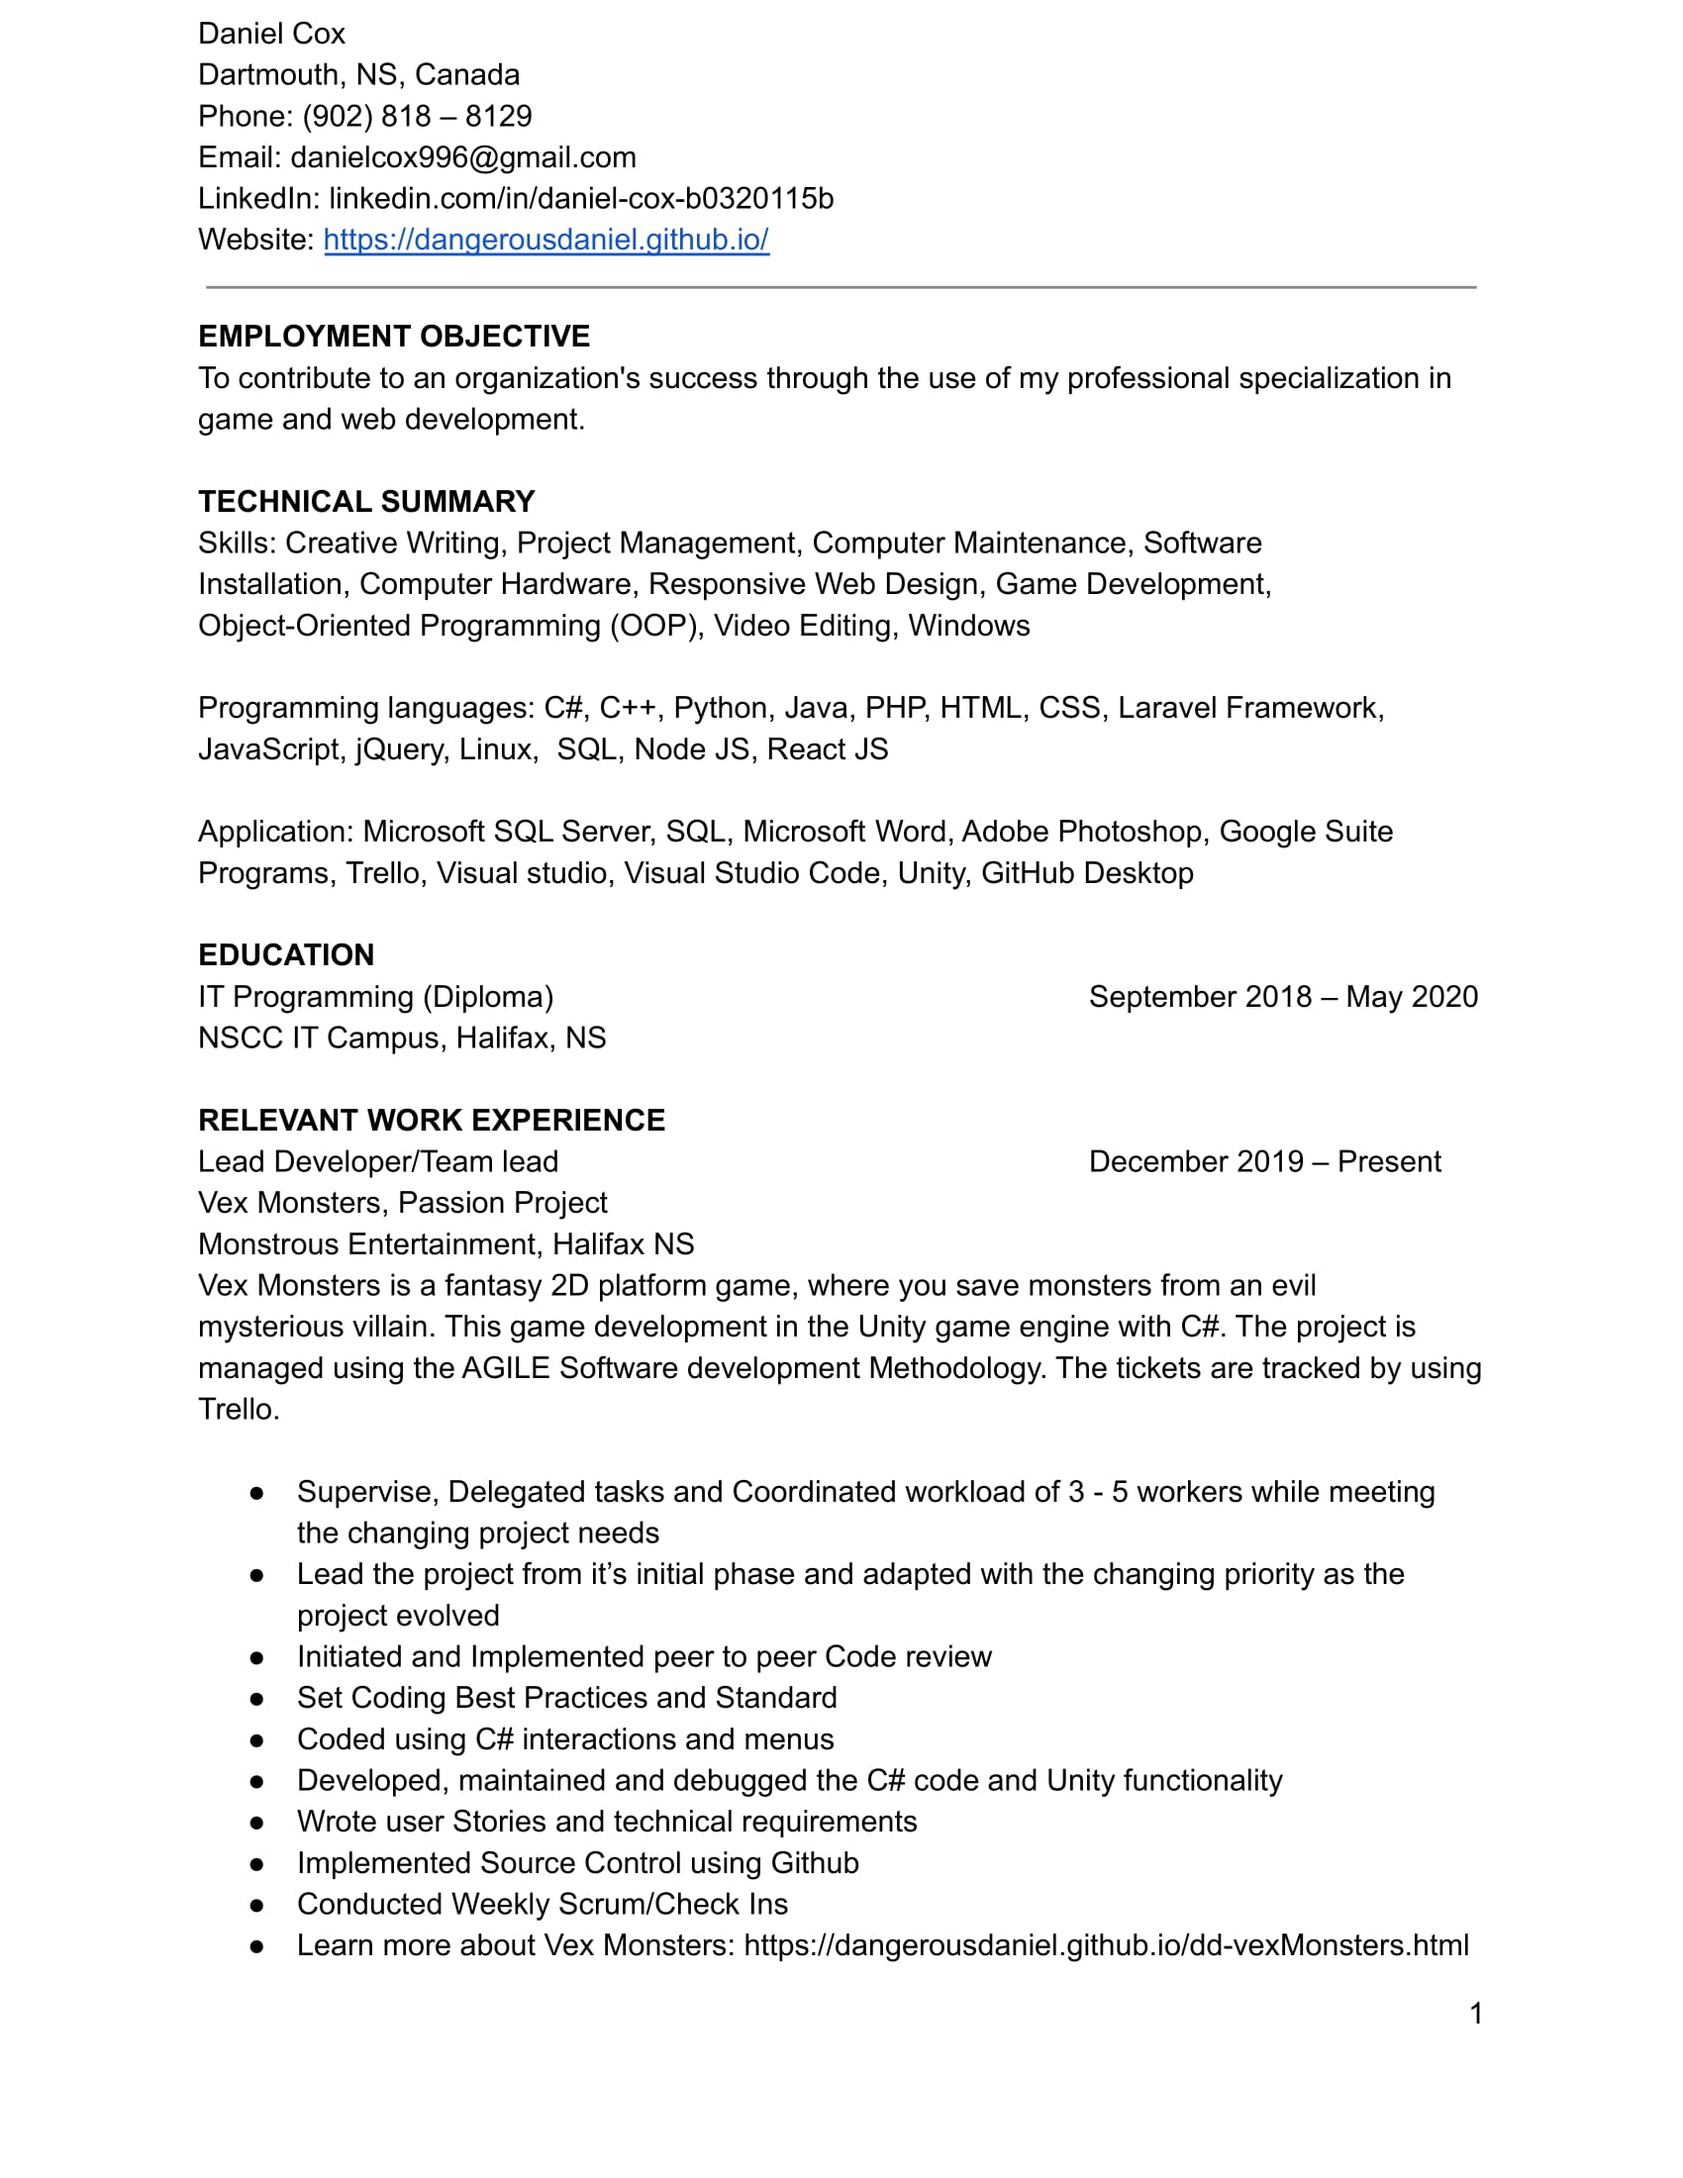
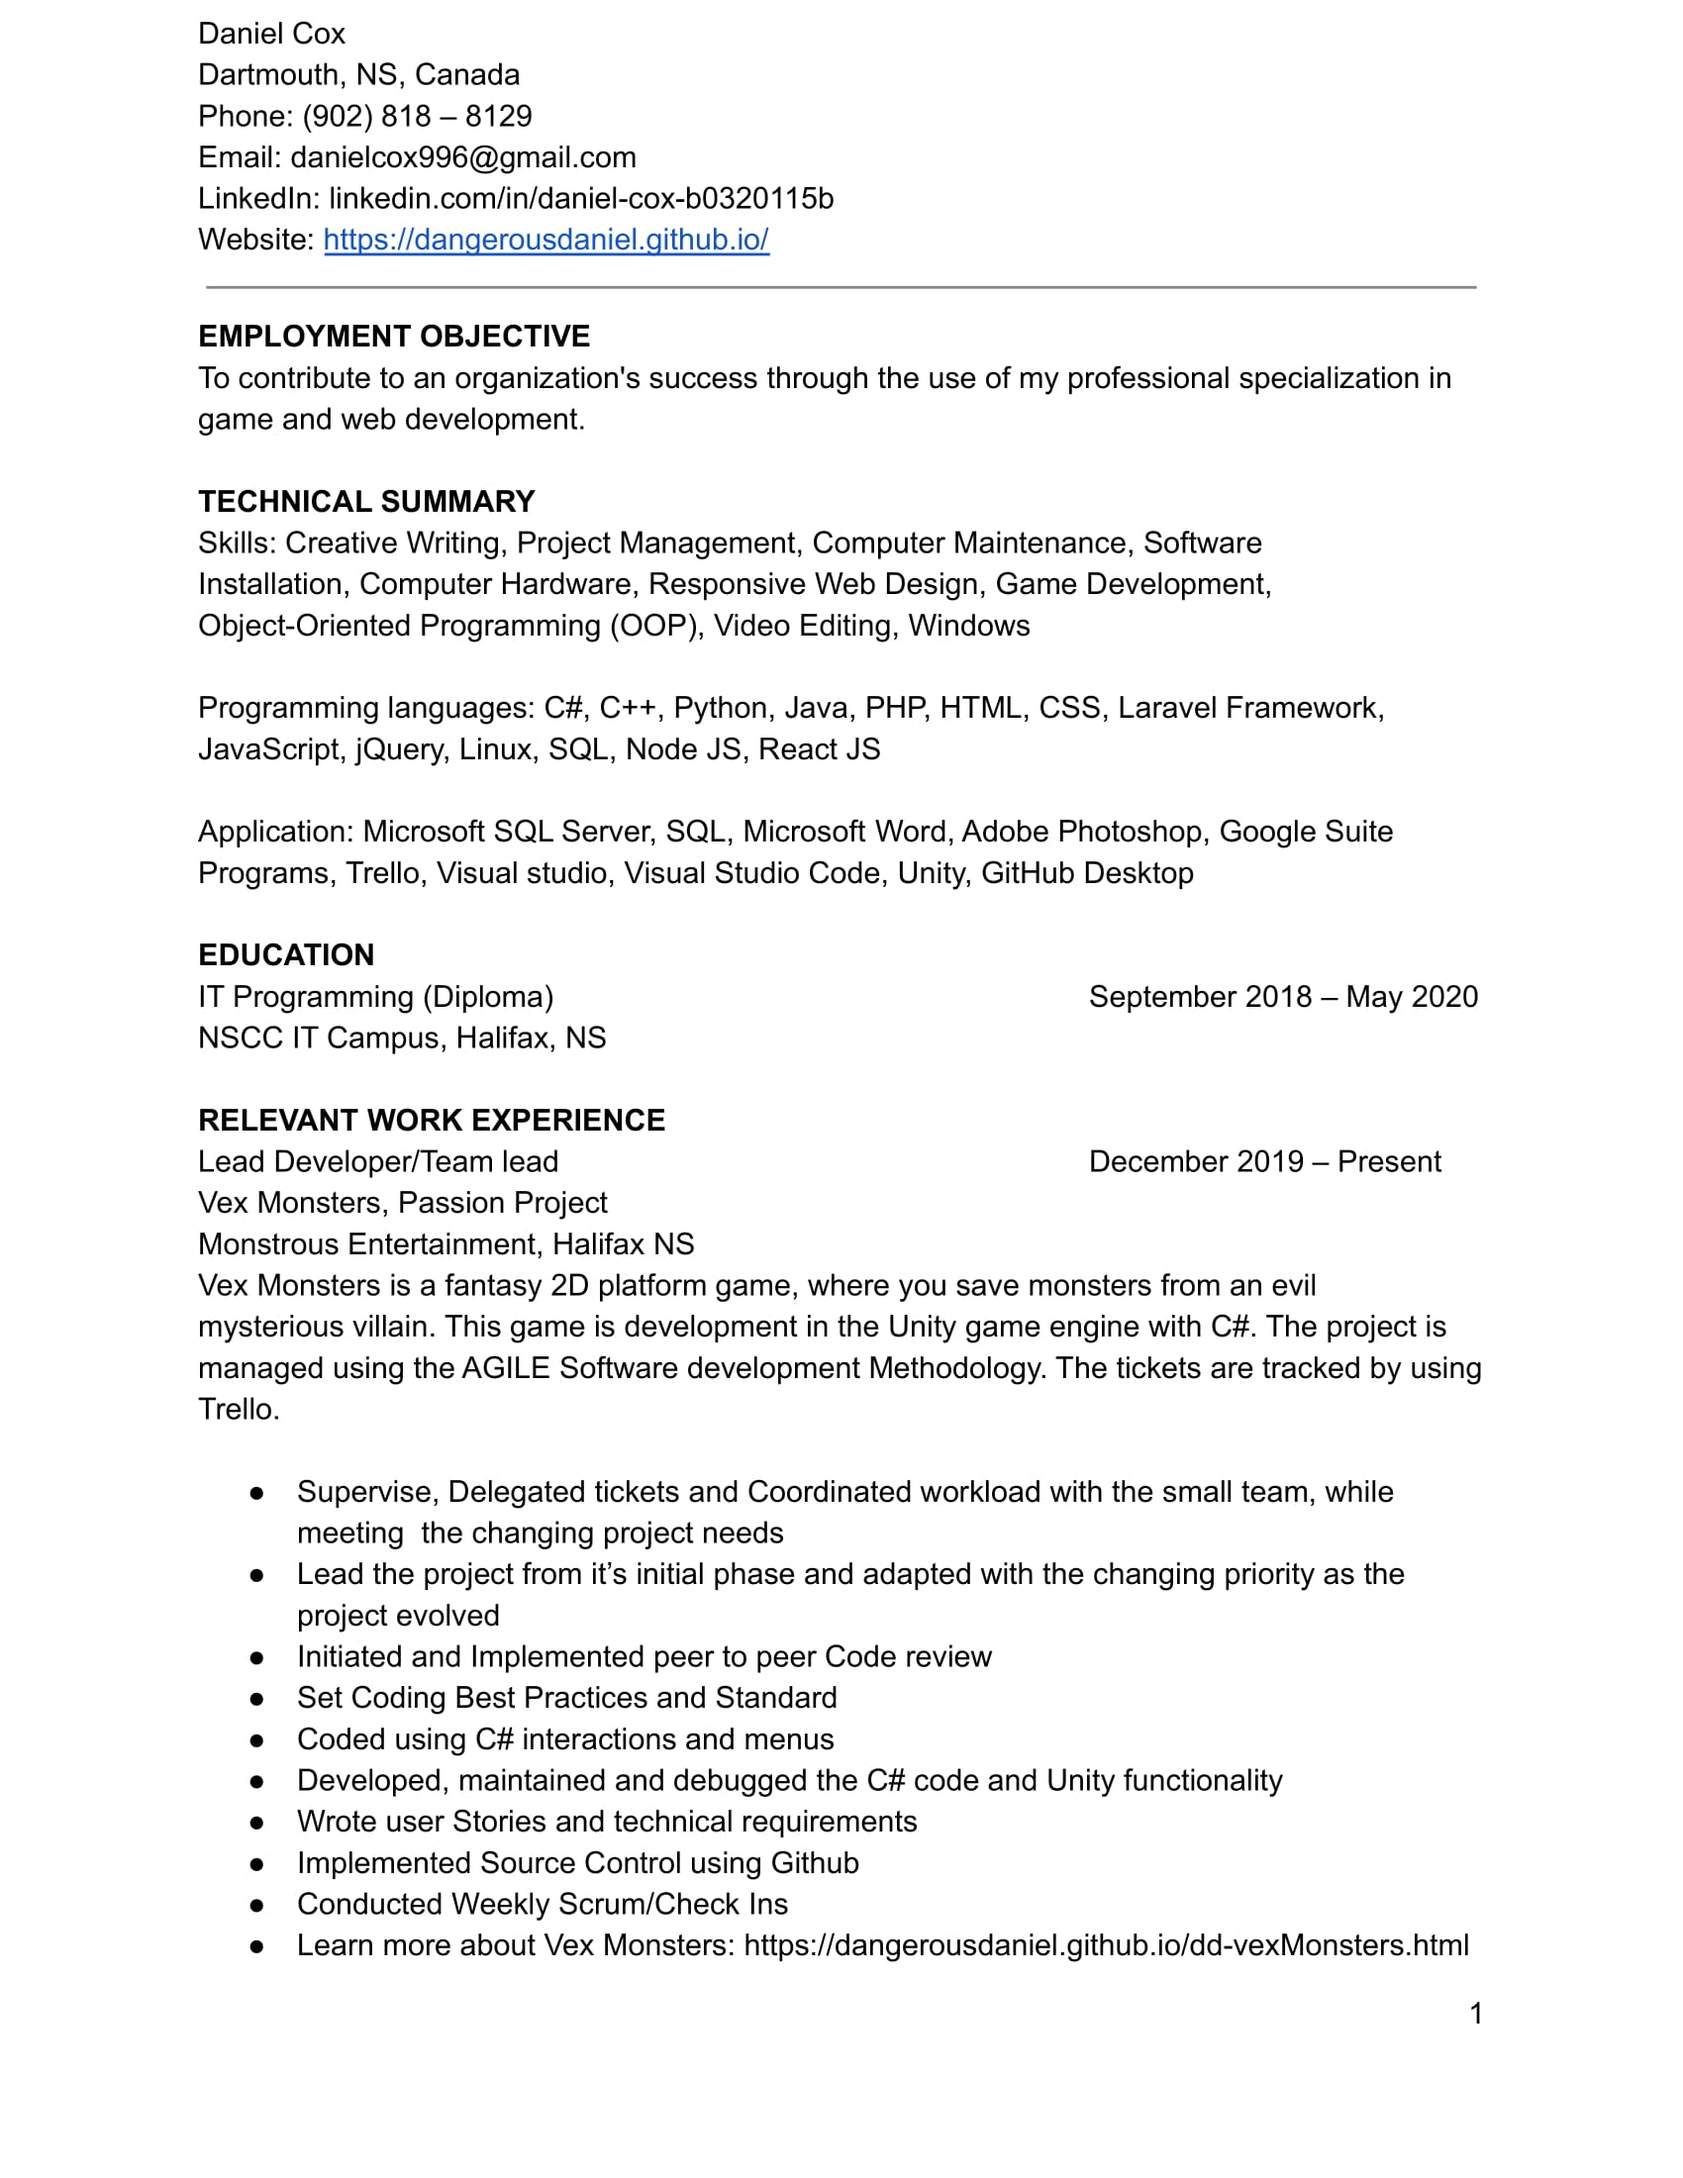
Mirror update and changes dome to my resume and Vex Monsters Page.

Changed region(s): [[0.1871, 0.68, 0.8418, 0.7109], [0.3429, 0.5873, 0.8418, 0.6182], [0.3429, 0.34, 0.53, 0.3709]]

diff --git a/dd-vexMonsters.html b/dd-vexMonsters.html
@@ -104,7 +104,7 @@
             </P>
 
             <p>
-              The team is a group of 3 - 5. We have a Designer, Generalist, Programming Lead. I am the Team Leader. 
+              The team is a small group. We have a Designer, Programming Lead, A QA Team. I am the Team Leader. 
               I direct the team via Trello project boards and weekly Scrums through Discord. 
               I also program the logic and User Interface of the game from moving the player, ai, dialogue, NPC and other game mechanics. 
               One more thing I do is write the story from the overview, backstory, chapters, and any plans that we need for the story. 
